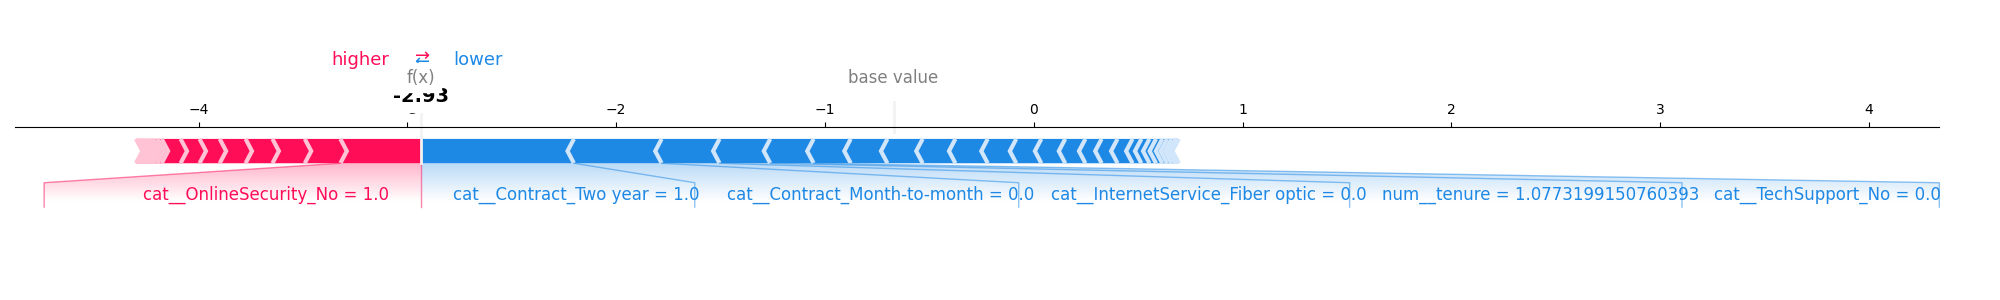
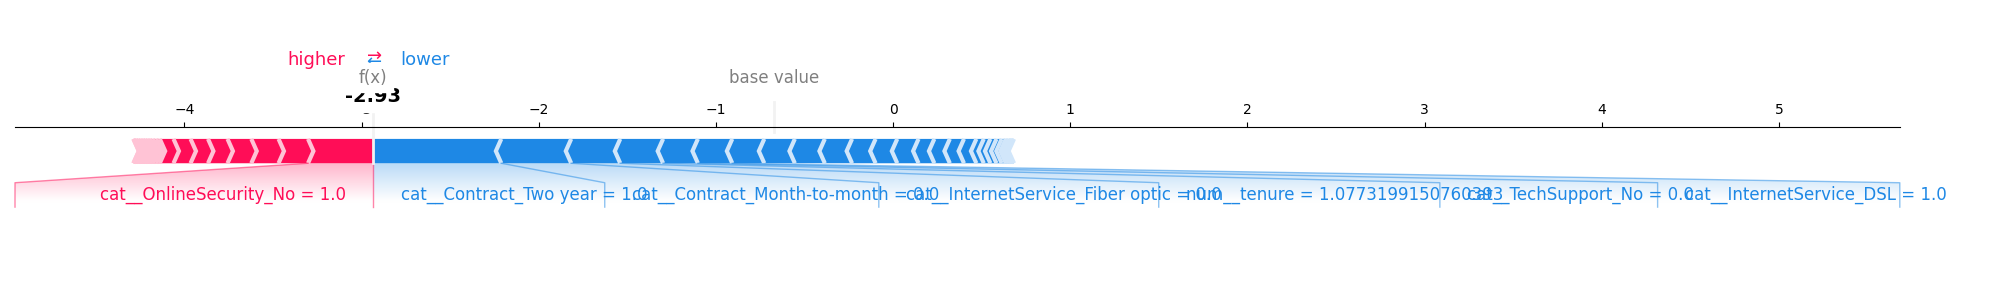
moved SHAP and feature importance to a new file so that i feed them with the tuned model

diff --git a/scripts/evaluate.py b/scripts/evaluate.py
@@ -105,6 +105,7 @@ plt.show()
 
 # ________________________________________________________________________________________
 # SHAP Explainablilty (Global; basically which features influence the prediction the most. In my case I found it to be tenure)
+# for: Importance + effect on predictions (positive/negative)
 
 # Load the best model
 model = joblib.load("models/logistic_regression.pkl")
@@ -166,3 +167,44 @@ shap.force_plot(
 plt.tight_layout()
 plt.savefig("reports/shap_local_force_plot.png")
 plt.close()
+
+
+
+
+
+# ________________________________________________________________________________________
+# Feature importance for Logistic Regression
+# for: Only importance ranking
+
+
+import numpy as np
+model = joblib.load("models/logistic_regression_tuned.pkl")
+
+# Get feature names after preprocessing
+feature_names = model.named_steps['preprocessing'].get_feature_names_out()
+
+# Get coefficients
+coef = model.named_steps['classifier'].coef_[0]
+
+# Sort features by absolute coefficient
+sorted_idx = np.argsort(np.abs(coef))[::-1]
+
+# Plot top 10 features
+import matplotlib.pyplot as plt
+
+plt.figure(figsize=(8,6))
+plt.barh([feature_names[i] for i in sorted_idx[:10]], coef[sorted_idx[:10]])
+plt.xlabel("Coefficient (Feature Importance)")
+plt.title("Top 10 Logistic Regression Feature Importances")
+plt.gca().invert_yaxis()
+plt.tight_layout()
+plt.savefig("reports/logreg_feature_importance.png")
+plt.show()
+
+
+
+"""
+For Logistic Regression, coefficients are a simple global feature importance, 
+while SHAP gives you the same idea but richer, including effect direction and 
+per-sample explanation.
+"""
